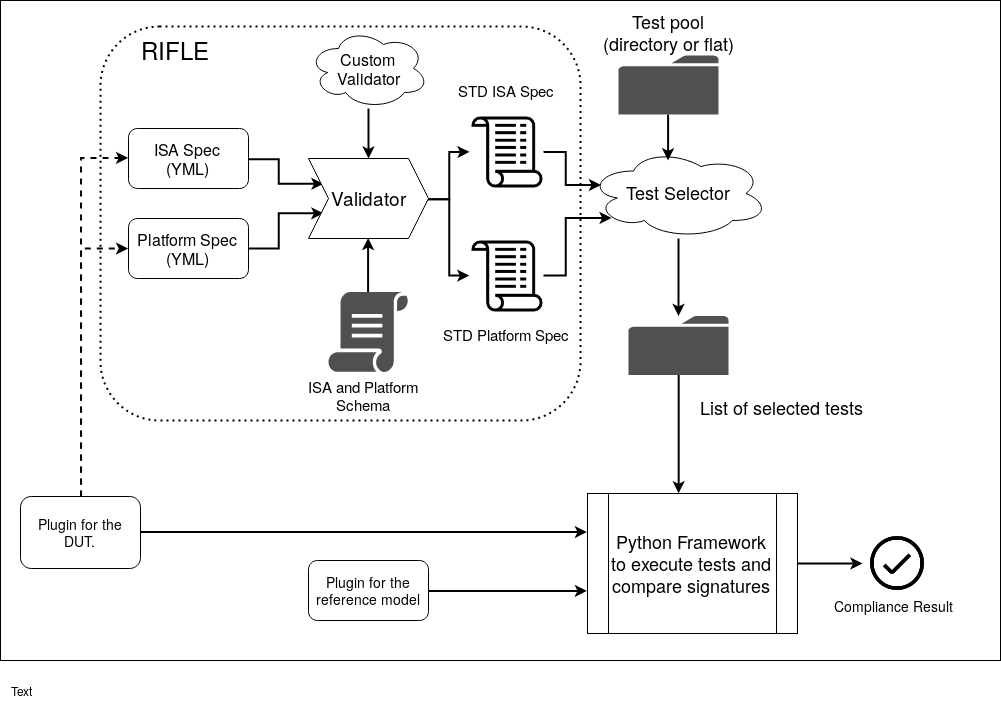
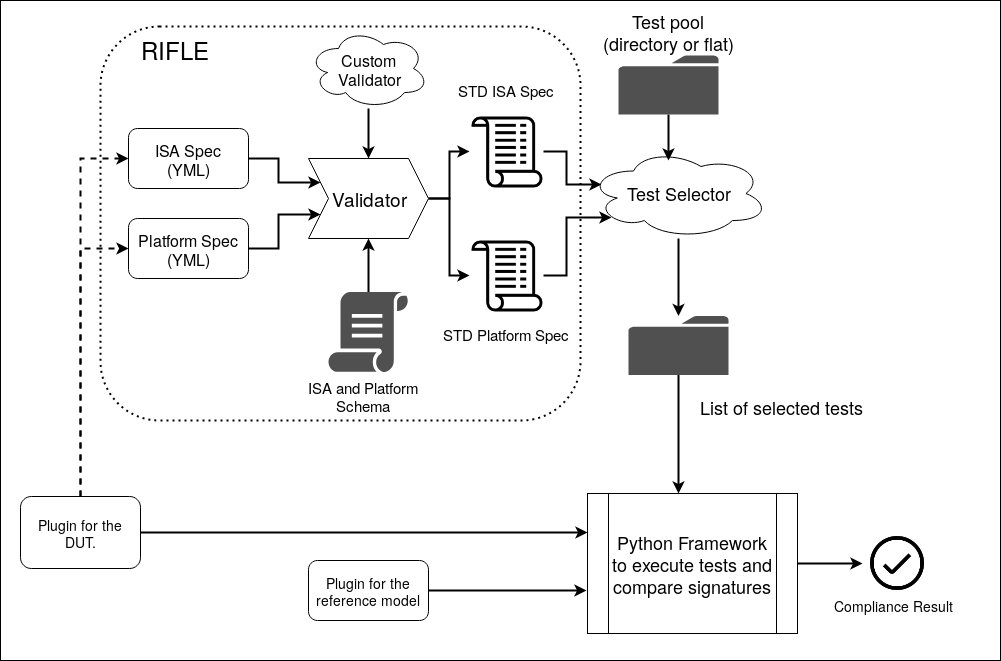
Doc update

diff --git a/docs/source/conf.py b/docs/source/conf.py
@@ -22,12 +22,12 @@ sys.setrecursionlimit(1500)
 
 project = u'RISCOF'
 copyright = '2019 InCore Semiconductors, IIT Madras'
-author = 'Neel Gala, S Pawan Kumar, Lavanya Jagan'
+author = 'InCore Semiconductors Pvt. Ltd.'
 
 # The short X.Y version
 version = '1.2.0'
 # The full version, including alpha/beta/rc tags
-release = '1.1.3'
+#release = 'beta'
 
 
 # -- General configuration ---------------------------------------------------
@@ -175,7 +175,7 @@ latex_elements = {
 #  author, documentclass [howto, manual, or own class]).
 latex_documents = [
     (master_doc, 'RISCVComplianceFramework.tex', 'RISC-V Compliance Framework Documentation',
-     'Neel Gala, S Pawan Kumar, Lavanya Jagan', 'manual'),
+     'InCore Semiconductors Pvt. Ltd.', 'manual'),
 ]
 
 

diff --git a/riscof/__init__.py b/riscof/__init__.py
@@ -1,3 +1,3 @@
 from pkgutil import extend_path
 __path__ = extend_path(__path__, __name__)
-__version__ = "1.7.0"
+__version__ = "1.7.1"

diff --git a/docs/source/index.rst b/docs/source/index.rst
@@ -1,44 +1,13 @@
-
+#################
 Welcome to RISCOF 
-=================
-
-
-**RISCOF** (RISC-V Compliance Framework) is a YAML based framework which can be used to prove compliance of a RISC-V implementation against the RISC-V privileged and unprivileged ISA spec. 
-
-**Caution**: This is still a work in progress and non-backward compatible changes are expected to happen. 
-
-For more information on the official RISC-V compliance and test suite please visit: `Github <https://github.com/riscv/riscv-compliance>`_
-
-RISCOF [`Repository <https://gitlab.com/incoresemi/riscof>`_]
-
-
-Overview
--------------------
-
-The following diagram captures the over-flow of RISCOF.
-
-.. image:: riscof-flow.png
-    :width: 800px
-    :align: center
-    :height: 500px
-    :alt: riscof-flow
-
-The user is required to provide the spec files in the plugin. 
-For details on how to write the spec files can be found here: `Spec Documentation <https://rifle.readthedocs.io/en/latest/yaml-specs.html>`_
-
-Working:
-^^^^^^^^^
-The ISA and Platform spec(obtained from the DUT plugin) are validated using *rifle*.
-
-From the standard YAMLs generated by rifle and the test-pool, the 'Test Selector' identifies the list of all tests that need to run on the given implementation for compliance.
-
-The list of tests, implmentation-plugin and golden-plugin are all fed into the python-framework, which iterates over executing tests on the both the plugins and comparing signatures. The result of the tests if provided at the end as a report indicating which tests passed and which failed.
-
+#################
 
 .. toctree::
    :hidden:
    :glob:
-   
+
+   intro
+   overview
    quickstart
    database
    macros
@@ -46,7 +15,7 @@ The list of tests, implmentation-plugin and golden-plugin are all fed into the p
    code-doc
 
 Indices and tables
-------------------
+-------------------
 
 * :ref:`genindex`
 * :ref:`modindex`

diff --git a/docs/source/overview.rst b/docs/source/overview.rst
@@ -1,0 +1,25 @@
+
+########
+Overview
+########
+
+The following diagram captures the over-flow of RISCOF.
+
+.. image:: riscof-flow.png
+    :align: center
+    :alt: riscof-flow
+
+The user is required to provide the spec files in the plugin. 
+For details on how to write the spec files can be found here: `Spec Documentation <https://rifle.readthedocs.io/en/latest/yaml-specs.html>`_
+
+
+Working
+-------
+The ISA and Platform spec(obtained from the DUT plugin) are validated using *rifle*.
+
+From the standard YAMLs generated by rifle and the test-pool, the 'Test Selector' identifies the list of all tests that need to run on the given implementation for compliance.
+
+The list of tests, implmentation-plugin and golden-plugin are all fed into the python-framework, which iterates over executing tests on the both the plugins and comparing signatures. The result of the tests if provided at the end as a report indicating which tests passed and which failed.
+
+
+

diff --git a/docs/source/intro.rst b/docs/source/intro.rst
@@ -1,0 +1,13 @@
+############
+Introduction
+############
+
+
+**RISCOF** (RISC-V Compliance Framework) is a YAML based framework which can be used to prove compliance of a RISC-V implementation against the RISC-V privileged and unprivileged ISA spec. 
+
+**Caution**: This is still a work in progress and non-backward compatible changes are expected to happen. 
+
+For more information on the official RISC-V compliance and test suite please visit: `Github <https://github.com/riscv/riscv-compliance>`_
+
+RISCOF [`Repository <https://gitlab.com/incoresemi/riscof>`_]
+

diff --git a/CHANGELOG.md b/CHANGELOG.md
@@ -6,8 +6,13 @@ This project adheres to [Semantic Versioning](https://semver.org/spec/v2.0.0.htm
 - Spec Coverage
 - Privilege tests for machine csrs.
 
+## [1.7.1] - 2019-07-19
+### Fixed
+- Removed stray text in flow diagram.
+- docs for pdf generation.
+
 ## [1.7.0] - 2019-07-19
-## Changed
+### Changed
 - Uses *rifle* instead of *rips* subpackage.
 ### Removed
 - *rips* module is no longer a subpackage.

diff --git a/docs/source/database.rst b/docs/source/database.rst
@@ -1,7 +1,8 @@
 .. _database:
 
+##################
 Database Generator
-^^^^^^^^^^^^^^^^^^^^^
+##################
 
 This module recursively walks the specified directory(/suite/modified) to find all .S files in them and constructs a database for the framework.
 The nodes in the directory are identified by their relative path from the repository home.

diff --git a/docs/source/cond_spec.rst b/docs/source/cond_spec.rst
@@ -1,7 +1,8 @@
 .. _cond_spec:
 
+**************************
 Framework directives(WIP)
-^^^^^^^^^^^^^^^^^^^^^^^^^^^
+**************************
 
 This section describes the format for the conditions to be followed while writing *_DSTR* for the *RVTEST_CASE_START* macro. Each of the statements ends with a ';' .
 

diff --git a/docs/source/macros.rst b/docs/source/macros.rst
@@ -1,7 +1,8 @@
 .. _test_macros:
 
+##################
 Macro Descriptions
-^^^^^^^^^^^^^^^^^^^
+##################
 
 Standard Test Macros
 --------------------

diff --git a/docs/source/code-doc.rst b/docs/source/code-doc.rst
@@ -1,5 +1,6 @@
+##################
 Code Documentation
-------------------
+##################
 
 .. automodule:: riscof.main
    :members: 

diff --git a/docs/source/quickstart.rst b/docs/source/quickstart.rst
@@ -1,5 +1,6 @@
+##########
 Quickstart
-----------
+##########
 
 Installation and Setup
 ^^^^^^^^^^^^^^^^^^^^^^^
